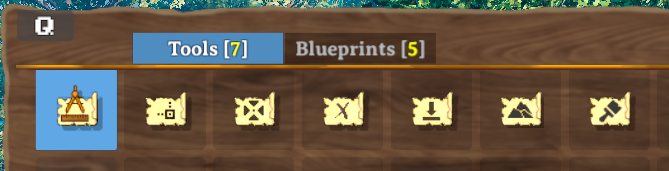
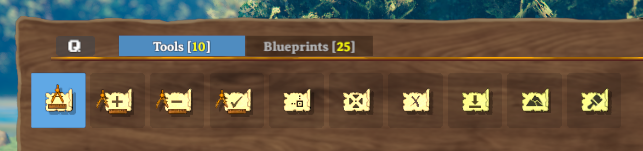
Update changelog & readme

diff --git a/README.md b/README.md
@@ -53,6 +53,19 @@ The Blueprint Rune comes with a handful of tools to aid handling blueprint creat
   * Use the __Scroll Wheel__ to change the capture radius. 
   * Use __Shift + Scroll__ to adjust the camera distance.
 
+* __Add to selection__: Add pieces to the current selection. Currently selected pieces will be highlighted in green. Per default only the hovered piece will be added to the selection. You can use various modifiers to change that behaviour.
+  * Press __Alt__ to add all connected pieces. This uses a flood fill to find connected pieces.
+  * Press __Ctrl__ to add pieces in a radius
+  * Use the __Scroll Wheel__ while holding __Ctrl__ to change the selection radius
+
+* __Remove from selection__: Remove pieces from the current selection. Currently selected pieces will be highlighted in green.  Per default only the hovered piece will be removed from the selection. You can use various modifiers to change that behaviour.
+  * Press __Alt__ to remove all connected pieces. This uses a flood fill to find connected pieces.
+  * Press __Ctrl__ to remove pieces in a radius
+  * Use the __Scroll Wheel__ while holding __Ctrl__ to change the selection radius
+  * Press __Alt__ and __Ctrl__ and click to clear selection
+
+* __Save selection__: Click to save the current selection to a blueprint
+
 * __Snap point marker:__ Add snap point markers to all points you want to have as snap points in your blueprint. The rotation of the markers does not matter, only the center point. We highly suggest that you also use [Snap points made easy](https://www.nexusmods.com/valheim/mods/299) so you can cycle through the snap points when placing the blueprint.
 
 * __Center point marker:__ Add a center point marker to your blueprint to determine the center of the blueprint. This is where it will be anchored while placing it. If a blueprint does not have a center point marker, a bottom corner of the blueprint is found and used as the center.

diff --git a/CHANGELOG.md b/CHANGELOG.md
@@ -1,3 +1,6 @@
+# Version 0.6.10
+* Added selection tools for easier blueprint creation!
+
 # Version 0.6.9
 * Made modifier keys in blueprint mode configurable
 * Compress blueprints before transfer and always resize PNG files to max 160 width
